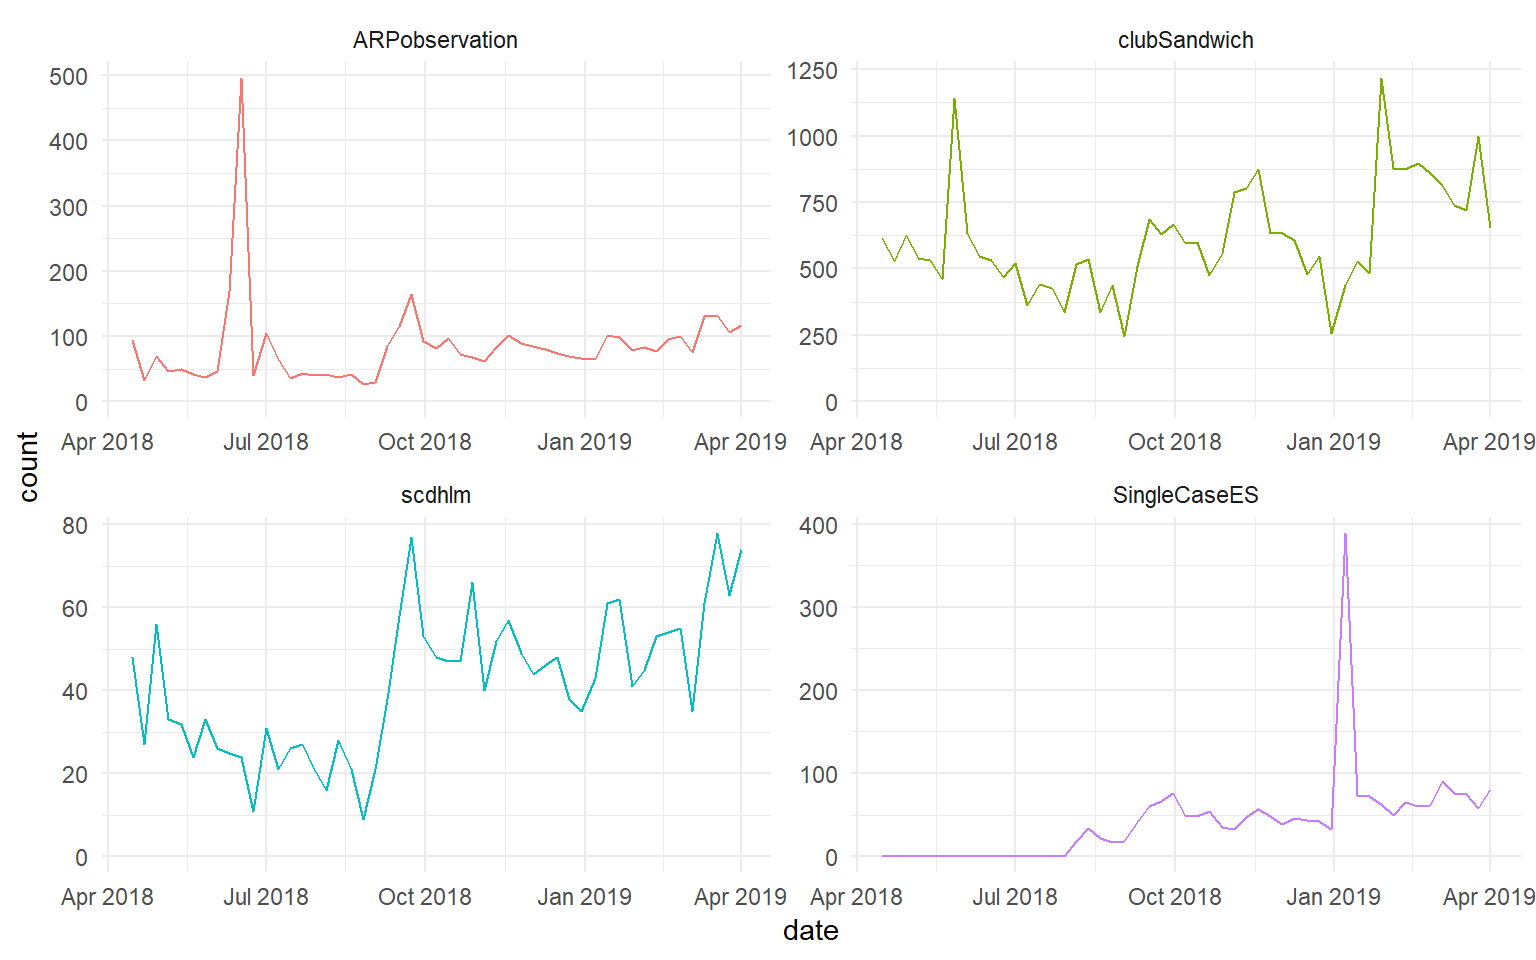
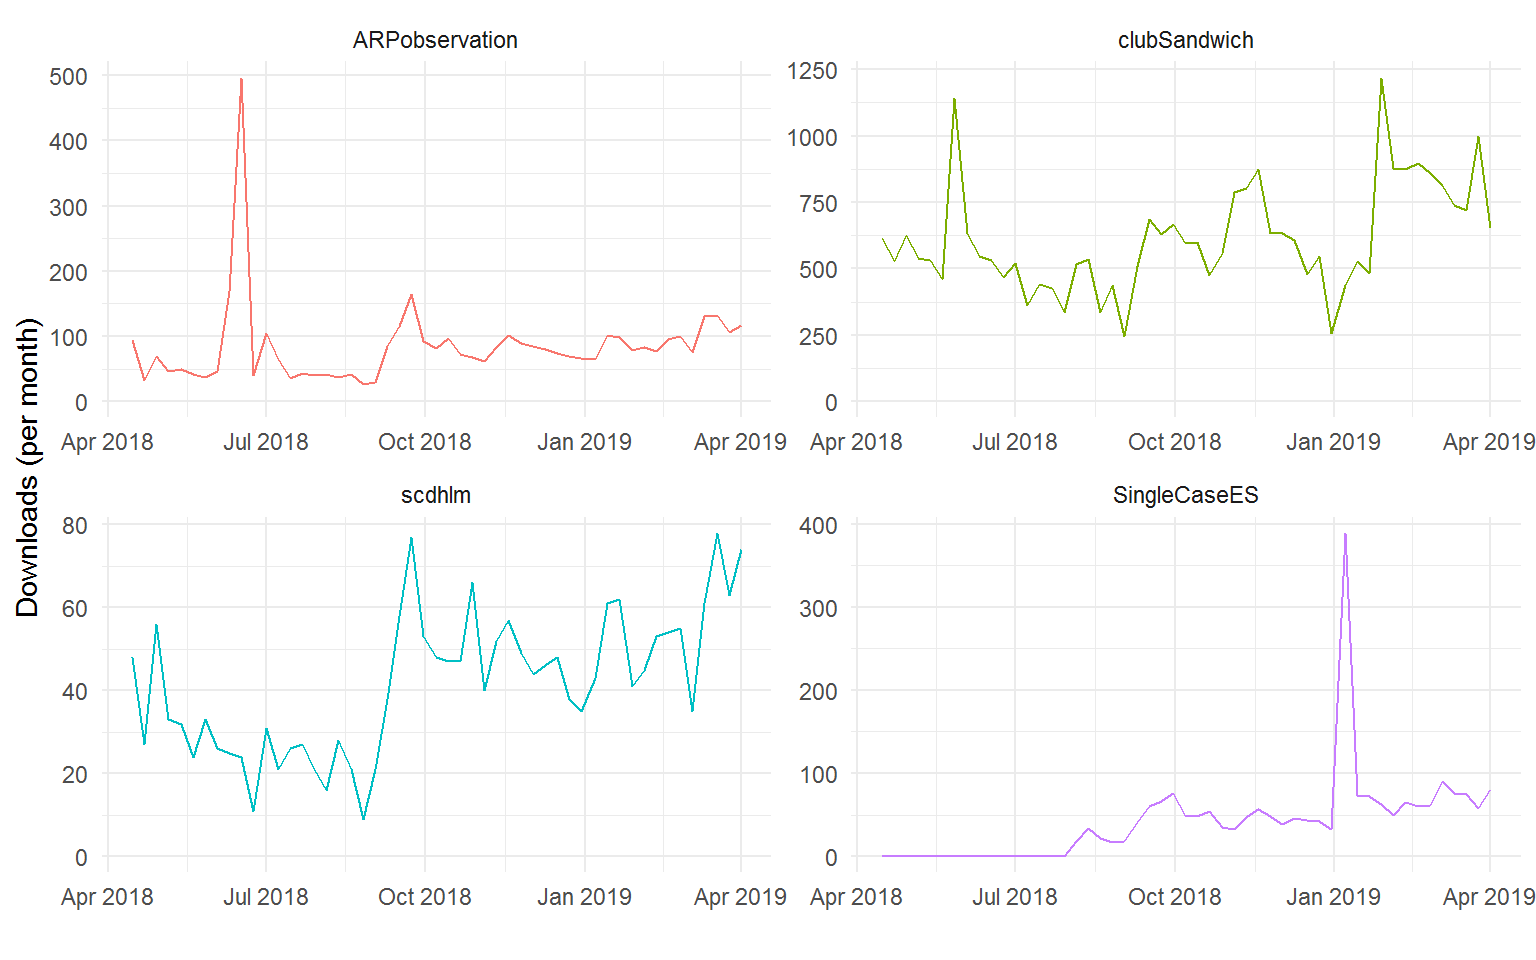
Finished CRAN package download post.

diff --git a/content/post/CRAN-package-downloads.html b/content/post/CRAN-package-downloads.html
@@ -1,16 +1,14 @@
 ---
 title: CRAN downloads of my packages
 author: James
-date: '2019-04-08'
+date: '2019-04-09'
 slug: package-downloads
-draft: true
 categories: []
 tags:
   - programming
 header:
   caption: ''
   image: ''
-  code_folding: hide
 ---
 
 <script src="/rmarkdown-libs/kePrint/kePrint.js"></script>
@@ -24,7 +22,7 @@ header:
 <li>SingleCaseES: <a href="https://CRAN.R-project.org/package=SingleCaseES"><img src="http://cranlogs.r-pkg.org/badges/last-month/SingleCaseES" /></a></li>
 </ul>
 <p>These statistics come from the <a href="https://www.r-pkg.org/">METACRAN</a> site, which makes available data on daily downloads of all packages on CRAN (one of the main repositories for sharing R packages). The downloads are from the RStudio mirror of CRAN, which is only one of many mirrors around the world. Although the data do not represent complete tallies of all package downloads, they are nonetheless the best available source that I’m aware of.</p>
-<p>The thing is, the download numbers are rather hard to interpret. Beyond knowing that somebody out there is at least <em>trying</em> to use the tools I’ve made, it’s pretty hard to gauge whether 300 or 3000 or 3 million downloads a month is a good usage level. In this post, I’ll attempt to put just a little bit of context around these numbers. Emphasis on <em>little bit</em>, as I’m not at all satisfied with what I’ll show below, but at least it’s something beyond four numbers floating in the air.</p>
+<p>The thing is, the download numbers are rather hard to interpret. Beyond knowing that somebody out there is at least <em>trying</em> to use the tools I’ve made, it’s pretty hard to gauge whether 300 or 3000 or 3 million downloads a month is a good usage level. In this post, I’ll attempt to put just a little bit of context around these numbers. Emphasis on <em>little bit</em>, as I’m not all that satisfied with what I’ll show below, but at least it’s something beyond four numbers floating in the air.</p>
 <div id="getting-package-download-data" class="section level3">
 <h3>Getting package download data</h3>
 <p>I used the <code>cranlogs</code> package to get daily download counts of all currently available CRAN packages over the period 2018-04-06 through 2019-04-06. I then limited the sample to packages that had been downloaded at least once between 2018-04-06 and 2018-10-05. This had the effect of excluding about 1000 packages that were either only recently added to CRAN or that had been discontinued but were still sitting on CRAN.</p>
@@ -186,24 +184,35 @@ scdhlm
 </tbody>
 </table>
 <p>Thus, <code>clubSandwich</code> sits in between <code>metafor</code> and <code>robumeta</code>, at the 90th percentile among all active packages on CRAN. The other packages are much less widely downloaded, averaging between 200 and 400 downloads per month. The distribution of monthly download rates is <em>highly</em> skewed, as can be seen in the figure below. About 68% of packages are downloaded 500 times or fewer per month, while only 7% of packages get more than 5000 downloads per month.</p>
-<pre class="r"><code>Pusto_pkg_dat &lt;- 
-  downloads_past_six %&gt;%
-  filter(package %in% Pusto_pkgs)
+<pre class="r"><code>library(colorspace)
+library(ggrepel)
 
-meta_pkg_dat &lt;- 
+focal_pkg_dat &lt;- 
   downloads_past_six %&gt;%
-  filter(package %in% meta_pkgs)
+  filter(package %in% c(Pusto_pkgs, meta_pkgs)) %&gt;%
+  mutate(Pusto = if_else(package %in% Pusto_pkgs, &quot;Pusto&quot;,&quot;comparison&quot;))
 
 title_str &lt;- paste(&quot;Average monthly downloads of R packages from&quot;, as_date(as_date(to_date) - duration(6, &quot;months&quot;)),&quot;through&quot;,to_date)
 
+qualitative_hcl(n = 2, h = c(140, -30), c = 90, l = 40, register = &quot;custom-qual&quot;)
+
 ggplot(downloads_past_six, aes(x = package, y = count)) +
   geom_col() + 
-  geom_col(data = Pusto_pkg_dat, color = &quot;green&quot;, size = 1.5) + 
-  geom_col(data = meta_pkg_dat, color = &quot;purple&quot;, size = 1.5) + 
+  geom_col(data = focal_pkg_dat, aes(color = Pusto, fill = Pusto), size = 1.5) + 
+  geom_label_repel(
+    data = focal_pkg_dat, aes(color = Pusto, label = package),
+    segment.size = 0.4,
+    segment.color = &quot;grey50&quot;,
+    nudge_y = 0.5,
+    point.padding = 0.3
+  ) + 
   scale_x_discrete(labels = NULL) + 
   scale_y_log10(breaks = c(20, 50, 200, 500, 2000, 5000, 20000, 50000, 200000), labels = scales::comma) + 
-  labs(x = &quot;Packages&quot;, y = &quot;Downloads (per month)&quot;, title = title_str)</code></pre>
-<p><img src="/post/CRAN-package-downloads_files/figure-html/unnamed-chunk-6-1.png" width="960" /></p>
+  scale_fill_discrete_qualitative(palette = &quot;custom-qual&quot;) + 
+  scale_color_discrete_qualitative(palette = &quot;custom-qual&quot;) + 
+  labs(x = &quot;Packages&quot;, y = &quot;Downloads (per month)&quot;, title = title_str) + 
+  theme(legend.position = &quot;none&quot;)</code></pre>
+<p><img src="/post/CRAN-package-downloads_files/figure-html/unnamed-chunk-6-1.png" width="768" /></p>
 </div>
 <div id="downloads-over-time" class="section level3">
 <h3>Downloads over time</h3>
@@ -234,8 +243,18 @@ weekly_downloads %&gt;%
   expand_limits(y = 0) + 
   facet_wrap(~ package, scales = &quot;free&quot;, ncol = 2) + 
   theme_minimal() + 
+  labs(x = &quot;&quot;, y = &quot;Downloads (per month)&quot;) + 
   theme(legend.position = &quot;none&quot;)</code></pre>
 <p><img src="/post/CRAN-package-downloads_files/figure-html/unnamed-chunk-7-1.png" width="768" /></p>
 <p>There are a couple of curious features in these plots. For one, there are big spikes in downloads of <code>ARPobservation</code> and <code>SingleCaseES</code>. The <code>ARPobservation</code> spike was in mid-June of 2018, when I was at the IES Single-Case Design training institute and demonstrated some of the package’s tools. The <code>SingleCaseES</code> spike was in early January, 2019. Perhaps someone was teaching a class in single-case research and demonstrated the package? Or something at the IES PI meeting (January 9-10, 2019)?</p>
 <p>Another interesting pattern is in the download rate of <code>scdhlm</code>, which looks like it increased systematically starting in September, 2018. I wonder if this was the result of someone demonstrating or incorporating use of the package into a course. Lacking details about where the downloads are coming from, it’s hard to do anything but speculate.</p>
+</div>
+<div id="caveats-and-musings" class="section level3">
+<h3>Caveats and musings</h3>
+<p>Clearly, download counts are only a very rough proxy for package usage. In marketing-speak, they might be more like leads than conversion, in that people might be downloading a package only to discover that it’s not good for anything and then never use it to accomplish anything. Downloads are also not one-time events. If they use it in their work, a single person will likely download a package many times, over a span of time as new versions are released, onto multiple machines that they might use, by accident in the process of trying to install some other package, and so on. Downloads of inter-related packages are likely to be highly correlated too, as they will be with release of new major versions of R, which probably makes it a bit tricky to do event studies.</p>
+<p>Ultimately, I don’t know that knowing where my packages stand in terms of download rankings is all that useful. The packages that I’ve developed are all aimed at fairly academic audiences, which means that citations would probably be a better measure of contribution. The problem is, many people don’t know that they should be citing software, or how to do it. As usual, there’s an R function for that. Here’s the citation for <code>clubSandwich</code>:</p>
+<pre class="r"><code>citation(package=&quot;clubSandwich&quot;) %&gt;%
+  print(style = &quot;textVersion&quot;)</code></pre>
+<pre><code>## James Pustejovsky (2018). clubSandwich: Cluster-Robust (Sandwich) Variance Estimators with Small-Sample
+## Corrections. R package version 0.3.2. https://CRAN.R-project.org/package=clubSandwich</code></pre>
 </div>
